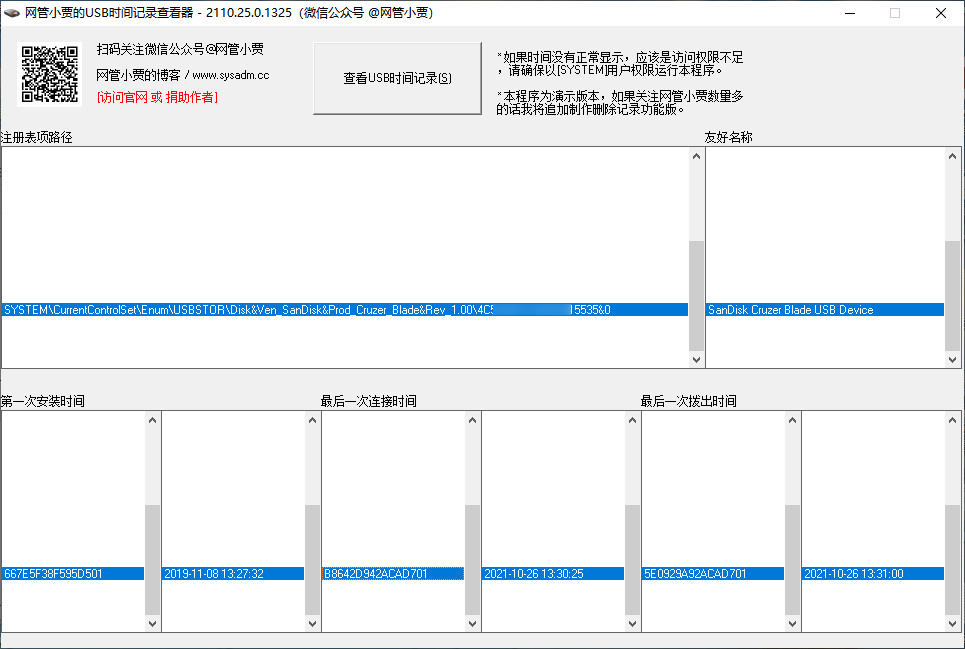
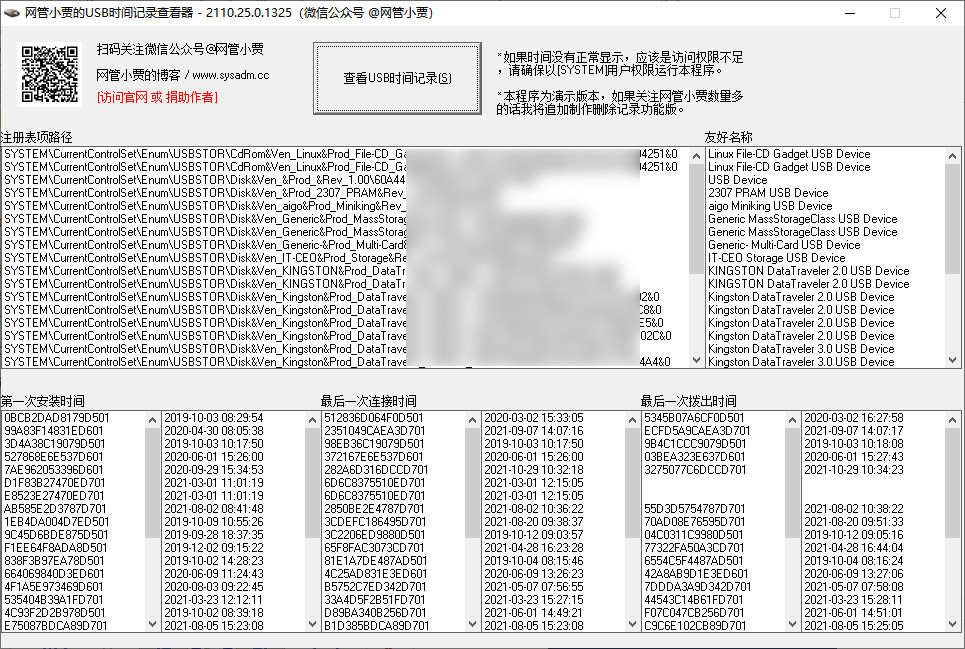
writing

diff --git a/55_系统运维/202110251002_获取U盘神秘的最后访问时间/获取U盘神秘的最后访问时间.md b/55_系统运维/202110251002_获取U盘神秘的最后访问时间/获取U盘神秘的最后访问时间.md
@@ -50,33 +50,135 @@
 
 “那是那是，师傅本事多，徒弟我学个一两样的就能保我穿衣吃饭了。”
 
+蔡学飞一脸认真，以恳求的语气说道：“师父，您就教我两招吧！别看了，就当休息休息，和我聊聊天放松放松！”
+
+简睿扶了扶眼镜盯着徒弟，“好吧，我就和你唠唠，说完你就回家，别妨碍我工作哦！”
+
+“太好了！您就给我讲讲那个U盘历史记录是咋给整出来的吧！”
+
+“这就要从头说起了......”
 
 
 
+案件快速回顾
+
+就在几天前，当地公安局破获一起倒卖个人信息案。
+
+根据有关线索，犯罪嫌疑人胡某莉（外号“莉姐”）曾与从事快递行业的牛某（外号“牛二”）勾结，大量非法获取并倒卖公民个人信息。
+
+关键的证物已由警方查获，但由于最关键的电脑U盘使用时间问题，犯罪嫌疑人始终百般抵赖、拒不认罪。
+
+考虑到案情重大，又在《个人信息保护法》出台实施之际，专案组秦队找到了简睿，希望他能起到关键作用，帮上这个忙。
 
 
 
+秦壮：“简睿，你是信息安全方面的专家，现在案情重大，领导非常重视，你给看看，帮个忙吧！”
+
+简睿：“这个案子大概的情况我了解了，不过需要我怎么帮呢？”
+
+秦壮：“哦，是这样，我们已经查获了“牛二”的个人电脑，他的电脑里有大量的用于快递联系的个人信息。而这个“莉姐”，就是倒卖信息的犯罪嫌疑人，她在前天下午的一点到三点之间曾经使用过“牛二”的电脑。在她住处我们也查获了她的U盘，现在我们需要确认在“牛二”的电脑上是否使用过“莉姐”的U盘，并且最好在刚才说的时间段内。这样我们就可以充分掌握了证据。”
+
+简睿：“明白了！秦队请放心，我立刻展开调查！”
 
 
-手动查看注册表中的属性项
+
+声明：本故事纯属虚构，如有雷同，不用多想，就是那么巧！
+
+本文系统在 `Windows 10` 平台上展开测试。
+
+
+
+### 使用工具软件
+
+简睿：“当我们想要查看U盘的使用记录时，自然而然地会先想到各种工具软件。
+
+比如，`UsbVewer` 、`USBDeview` 之类的，的确很方便易用，但是它们并不完美，也并不完全能给我们带来帮助。”
+
+蔡学飞：“师父，这些工具软件上不是可以查出某项U盘的使用时间吗？”
+
+简睿：“你仔细看看，上面只写着创建日期和最后的插拔日期。而后者并不能有效地反映出使用U盘的具体时间段。到底什么时候插入，什么时候拨出，这些并不明确。”
+
+图01
+
+
+
+蔡学飞：“哦，我懂了！那要怎么才能查出具体的插拔时间呢？”
+
+简睿：“嗯，单纯依靠手头现有的工具软件已经不能满足我们的调查需求了，所以我们要另辟蹊径，自己去调查获取。不过在此之前，我们先要搞懂原理。”
+
+蔡学飞：“师父，您快讲讲原理！”
+
+
+
+### 原理
+
+根据相关资料，U盘的使用历史记录均被系统存放在了注册表中。
+
+那么具体这些记录信息被存放到了哪些地方呢？
+
+我们可以通过手工方式来一探究竟。
+
+
+
+实际上所有的U盘信息都会被记录到以下注册表项的子项中。
+
+```
+HKEY_LOCAL_MACHINE\SYSTEM\CurrentControlSet\Enum\USBSTOR
+```
+
+图02
+
+
+
+而在 `USBSTOR` 展开的子项中，我们就可以清楚地看到之前我们使用U盘的记录了。
+
+图03
+
+
+
+接着我们展开每一行记录项时，还有可以看到一串为了标识U盘系统所生成的数字编码。
+
+点击这个数字编码，在右侧的窗口中有一项名字为 `FriendlyName` 的字符串键即是我们所看到的U盘的友好名称。
+
+比如本例中U盘的名称为 `SanDisk Cruzer Blade USB Device` 。
+
+图04
+
+
+
+其他的一些有关于这个U盘的基本信息都可以很容易地获取到，只是我们想要的接入时间却并不在这里。
+
+“在哪儿啊？”
+
+“实际上它们被隐藏在了属性 `Properties` 子键中。”
+
+“那我们点击展开 `Properties` 查看不就行了？”
+
+“你太天真了，为啥我要说是被隐藏的，就是因为这个 `Properties` 是无法直接打开的，你瞧！”
+
+ 图a01
+
+
 
 如果你直接点击 `Properties` 这一项时，就会收到一个打开错误的提示。
 
 上面写得很清楚，无法打开，拒绝访问，即便是管理员权限也会被拒之门外。
 
-图a01
 
 
 
-为什么到这里就打不开了呢？
+
+“哎？为啥到这里就打不开了呢？”
 
 我不知道原因，可能里面有一些秘密，它并不想让我们普通的用户知道吧。
 
 那我就是想看看里面应该怎么办呢？
 
-其实也是有办法的，需要设置权限，而这个权限就是我们一般用不到的 `SYSTEM` 权限。
+其实也是有办法的，需要设置权限，而这个权限就是我们普通用户通常情况下用不到的 `SYSTEM` 权限。
 
-这也就是我们用管理员权限也无法打开的缘故，`SYSTEM` 权限似乎更高级一些吧。
+“这也就是我们即便使用管理员权限也无法打开的缘故。”
+
+“ `SYSTEM` 权限似乎更高级一些吧？”
 
 好了，我们来看看如何撬开这把需要 `SYSTEM` 权限的锁。
 
@@ -154,25 +256,122 @@ OK，这时由于所有者变更为管理员了，所以我们就允许任意添
 
 
 
+“哎，不对啊师父，右边的键值怎么好像是个十六进制的数据啊？”
+
+“你猜对了，这就是十六进制格式的时间数据，叫作 `FILETIME` 。
+
+不过这个比较复杂，牵扯到数据存放的方式（大小尾端）等，所以你有空可以看看以前我写的参考文章。
+
+看过之后就可以了解如何将这个十六进制的数字转换成我们能看得懂的正常可读的时间格式了。”
 
 
 
+>参考前文：《十六进制的时间格式到底是个什么鬼？》
+>
+>链接：https://www.sysadm.cc/index.php/vbbiancheng/798-what-the-hell-is-hexadecimal-datetime-format
 
-自制USB时间记录查看器。
+
+
+“原来如此，那我想要查找指定的U盘，只要按前面说的方法找到十六进制的时间数据，然后再将其转换就可以了吧？”
+
+“没错！不过这里会有一个小问题。”
+
+“什么问题？”
+
+“如果你只查一个U盘的时间记录，那么当然没什么难度。
+
+可要是批量地查询多个U盘呢，难道还要一个一个地去修改注册表项的访问权限吗？”
+
+“还真是哈，这也太麻烦了啊！”
+
+“所以说，我们应该换个思路。
+
+这个查询 `Properties` 注册项问题的本质其实就是要获得 `SYSTEM` 权限，因此我们可以通过某种方法让 `Regedit` 以 `SYSTEM` 权限运行就可以了。”
+
+“怎么整？`SYSTEM` 权限可不是一般用户可以获取的，而且我好像记得 `SYSTEM` 没有密码啊，可怎么输入呢？”
+
+“你说得不错，这个 `SYSTEM` 是高级系统权限，普通用户无法正常以它的身份运行程序，所以我们可以借助第三方程序来达到目的。
+
+比如微软官方提供的工具软件  `PsExec` ，它被打包在了工具集 `PsTools` 中。 ”
+
+
+
+**`PsExec` 下载**
+
+官方链接：https://docs.microsoft.com/zh-cn/sysinternals/downloads/psexec
+
+本地下载链接：
+
+
+
+“用法比较简单，将 `PsExec` 从 `PsTools` 压缩包中提取出，然后按以下命令行形式执行程序即可。”
+
+```
+# -i 程序可交互，-s 以SYSTEM帐户权限运行
+psexec -i -s C:\Windows\regedit.exe
+```
+
+
+
+“此外，还有其他优秀的第三方软件也可以实现这样的效果，比如 `NirCmd` 。”
+
+下载链接：https://www.nirsoft.net/utils/nircmd.html
+
+
+
+“需要注意的是，`PsExec` 作为远程工具，它有一个小缺点，那就是必须要保证程序所在的系统开放了默认共享（`C$` 、`Admin$` ），否则会导致程序启动失败。”
+
+图d05
+
+
+
+“经过以 `SYSTEM` 权限运行 `regedit.exe` 后，我们就可以打开任意 `Properties` 子项了。”
+
+图a03
+
+
+
+"太好了！这样就方便多了！"
+
+“呵呵，可是这样也顶多不用挨个改权限，还算不上方便啊！”
+
+“哦，也是啊，如果U盘记录非常多，那还是要手动一个一个地去对照查找，还是费时费力啊！”
+
+“是的，一针见血！你小子有进步啊！”
+
+“嘿嘿！那师父，这种情况还有啥更好的绝招没？”
+
+“有啊，在我们掌握了原理后，如果某些操作或工具软件不能达到或实现我们目的的时候，我们就可以自己通过编程来达到预期效果。”
+
+简睿接着说：“我们可以通过代码来遍历读取我们需要的注册表项，然后通过 `FILETIME` 格式转换成我们可读的时间格式。
+
+我花了几个晚上的时间，自己动手制作了一款小工具 `XJUsbViewer` ，USB时间记录查看器。”
 
 图a13
 
 
 
+"我利用了第三方的 `NirCmd` 程序，在程序启动时自动切换为以 `SYSTEM` 权限运行。
+
+然后再点击查看USB时间记录按钮，系统中的所有USB时间记录就都显示出来了。
+
+除了区分为三个部分（第一次安装时间、最后一次连接时间以及最后一次拔出时间）外，还有十六进制与正常时间格式的对照。"
+
+"嘿，这个好啊！怪不得您效率这么高啊！我又学到一招了！"
+
+
+
+**`XJUsbViewer` (xxxK)**
+
+本地下载：
+
+
+
+“由于时间比较紧，目前我也就做了这么一个简单的查询功能。
+
+至于清除记录的功能，等到以后有空再研究研究吧！”
 
 
 
 
-大尾端或小尾端的十六进制时间格式，可以参考以前我写的文章。
-
-其中包括转换成直观可读格式的算法。
-
->参考前文：《十六进制的时间格式到底是个什么鬼？》
->
->链接：https://www.sysadm.cc/index.php/vbbiancheng/798-what-the-hell-is-hexadecimal-datetime-format
 
